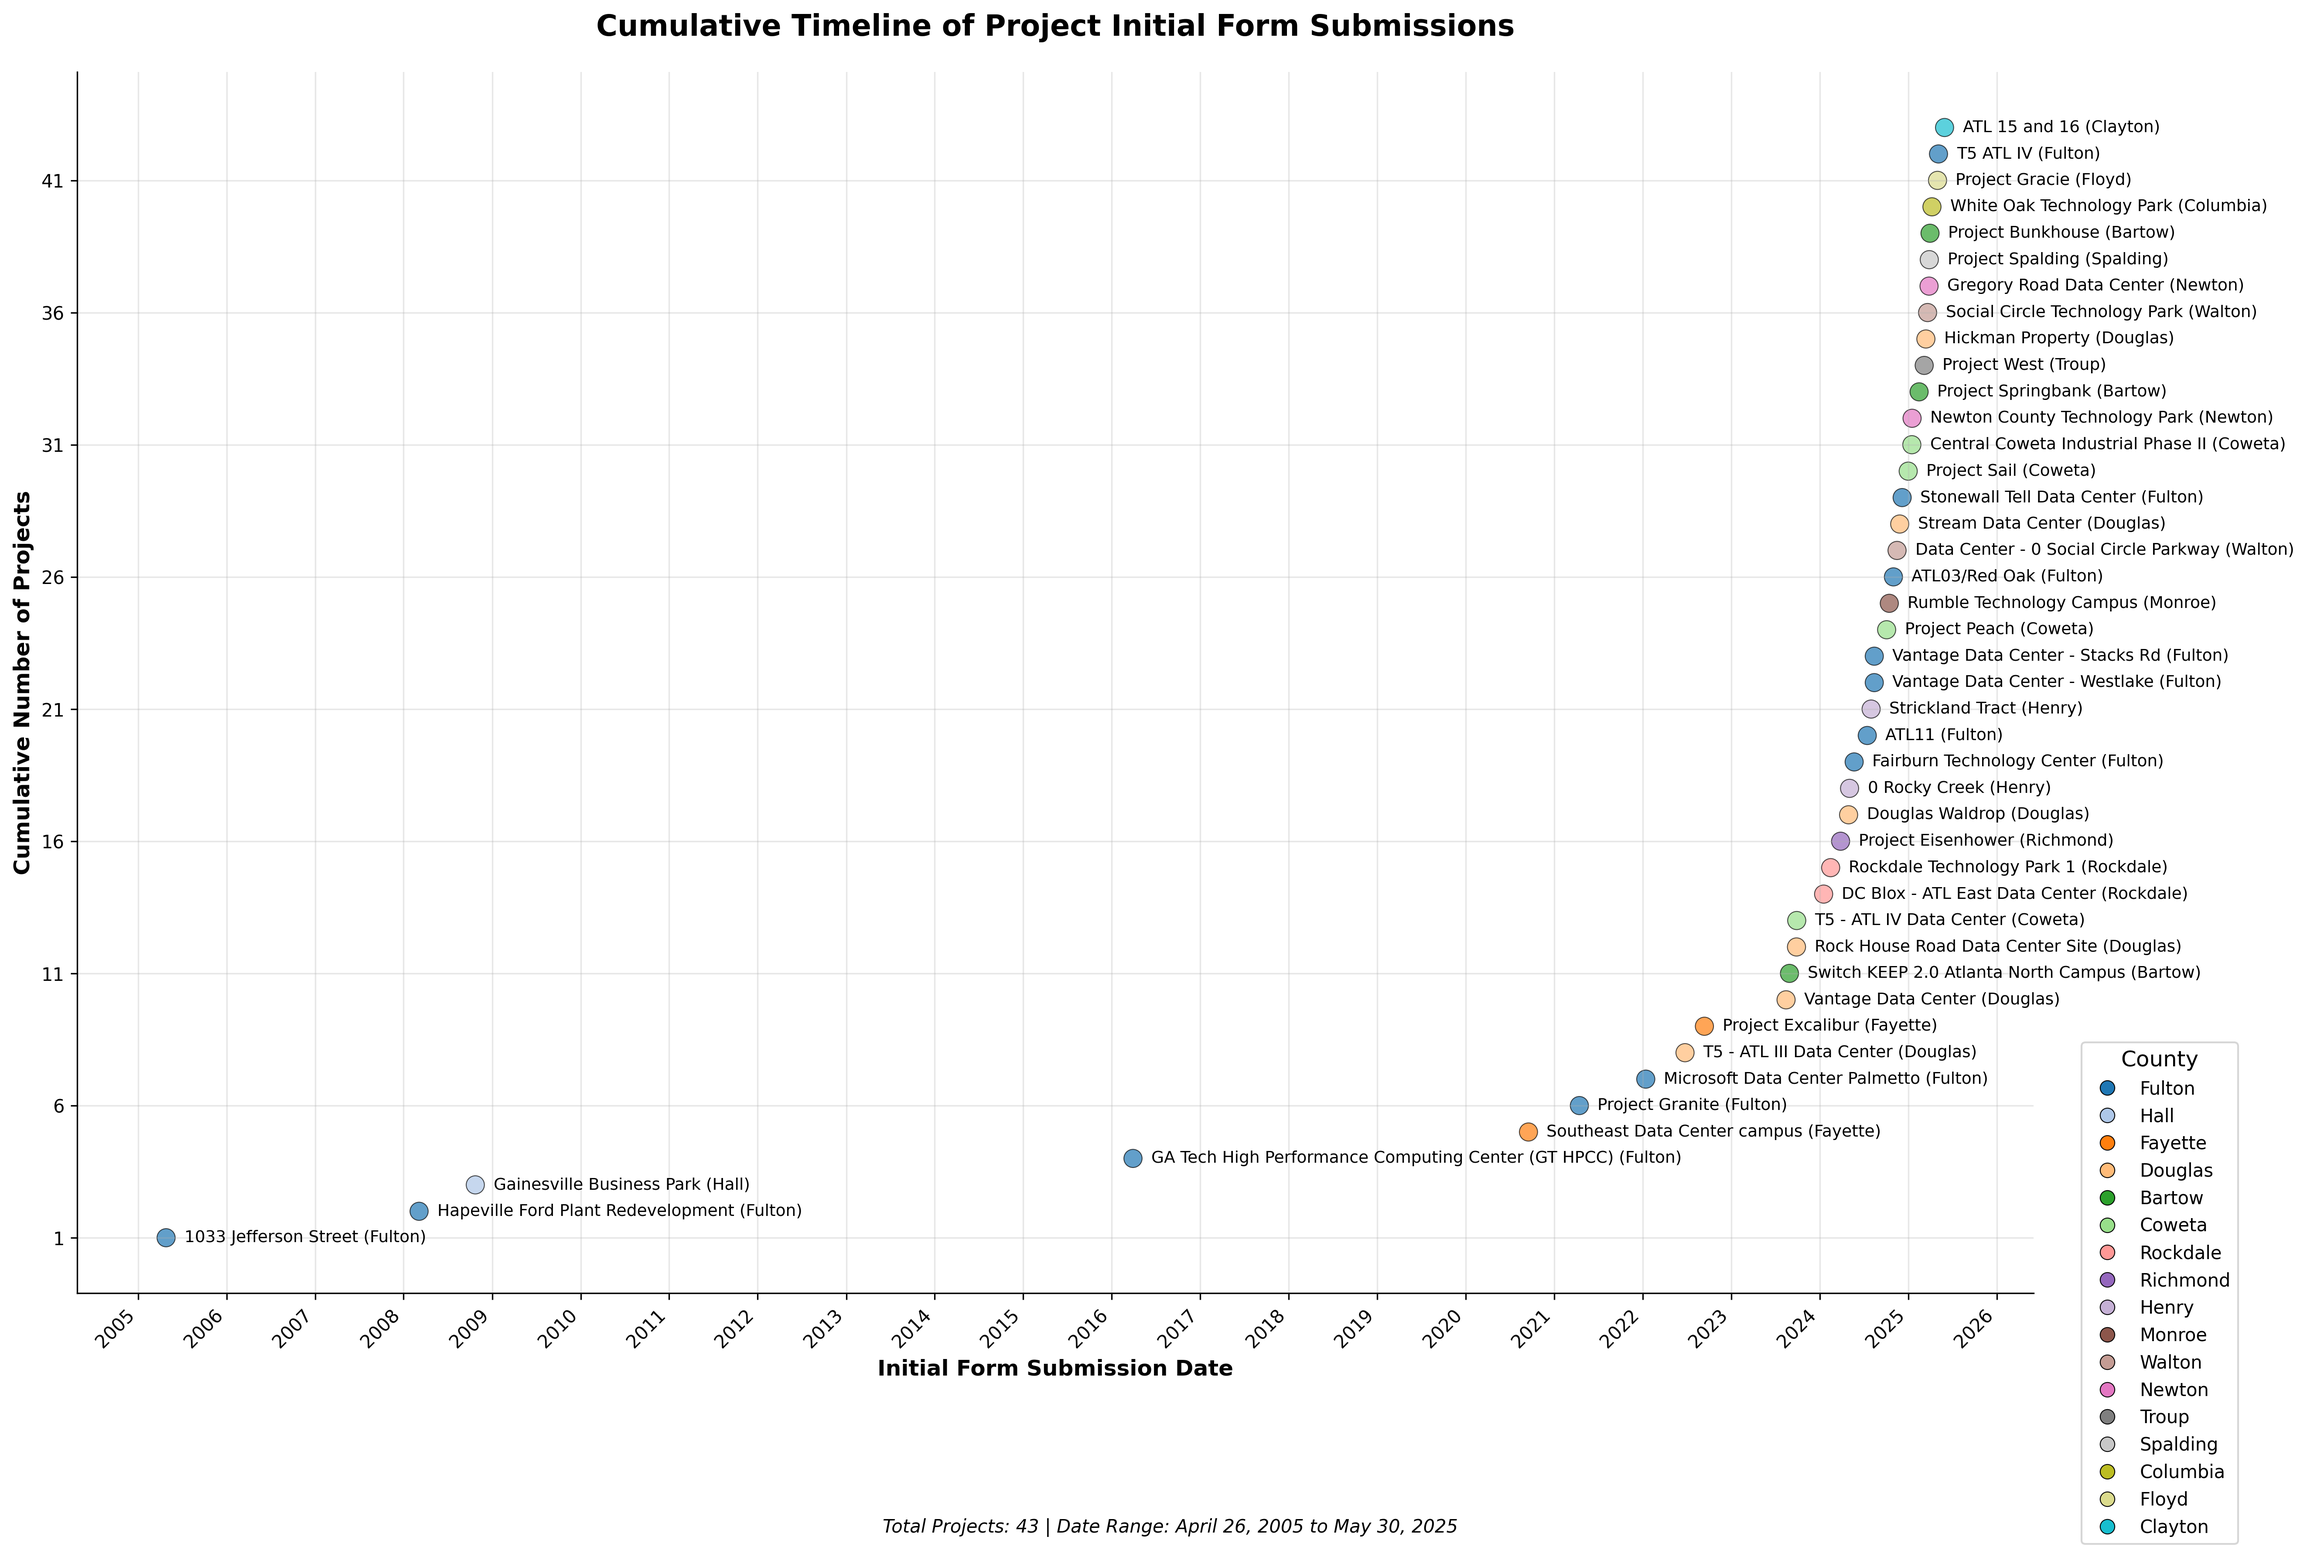
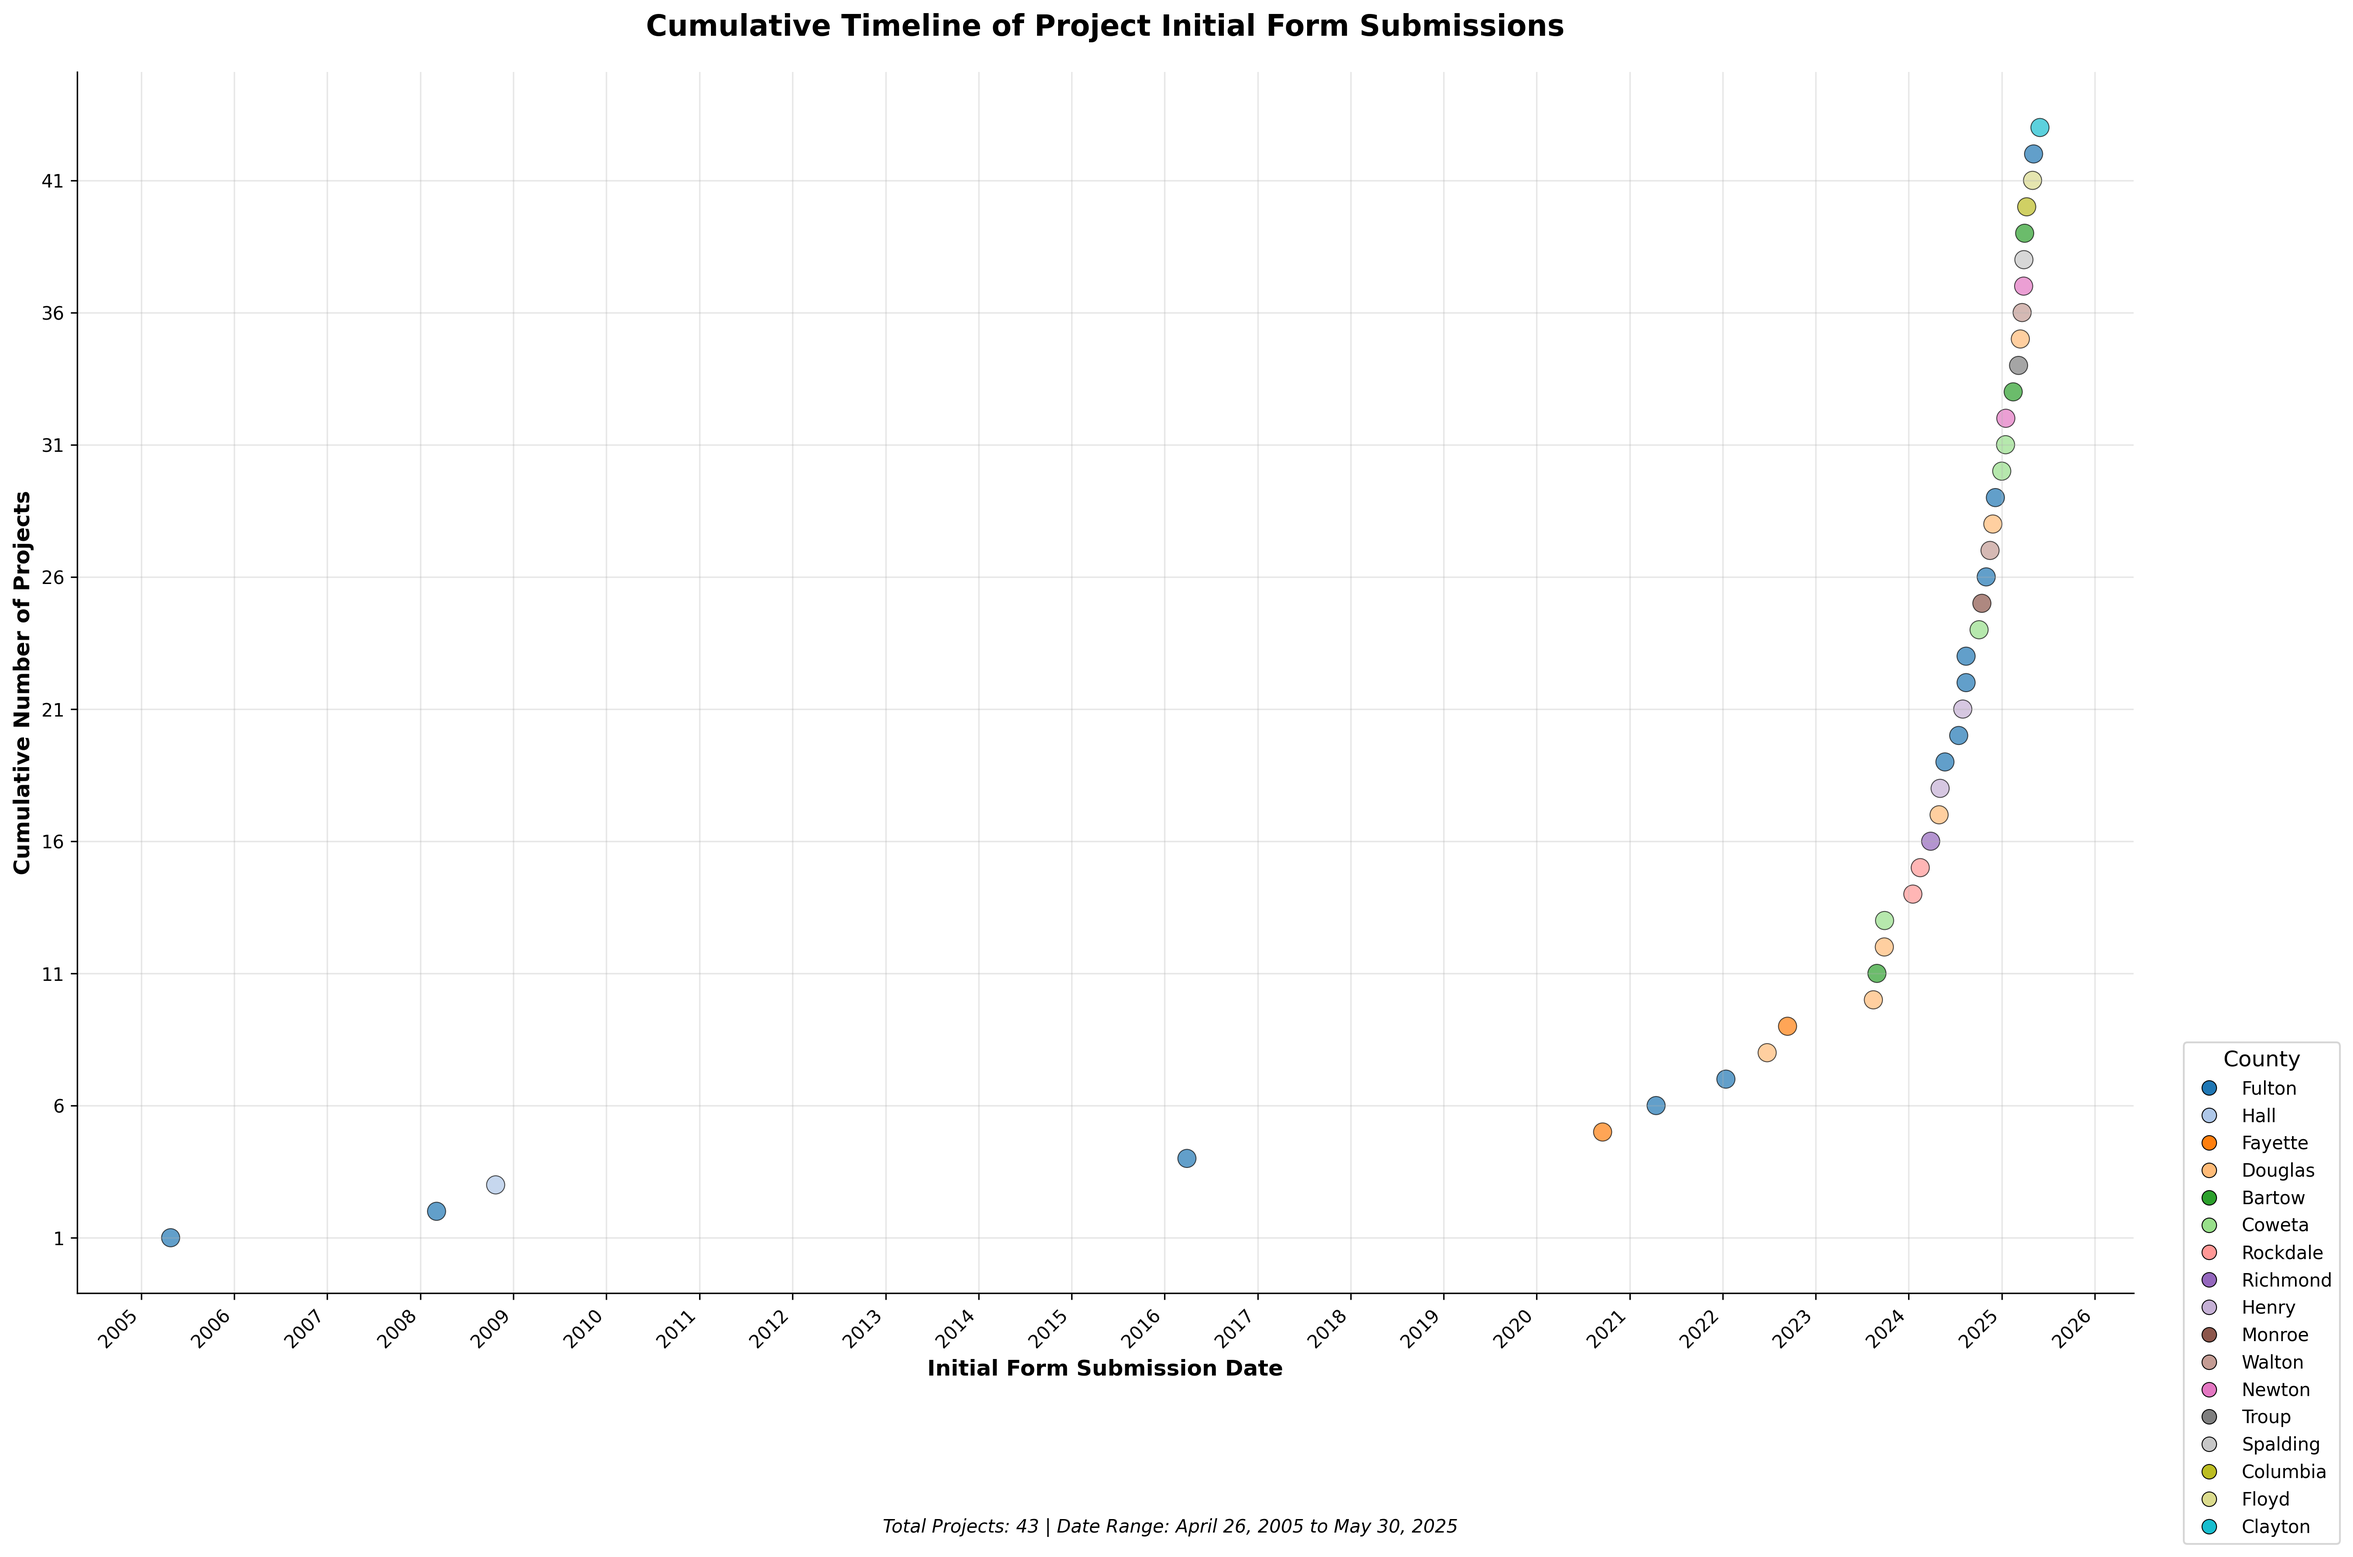
Changed timeline visualization

diff --git a/scripts/water_data_visualizations.py b/scripts/water_data_visualizations.py
@@ -11,6 +11,7 @@ from shapely.geometry import shape
 from datetime import datetime
 import matplotlib.dates as mdates
 from matplotlib import colormaps
+from matplotlib.ticker import FuncFormatter
 
 
 def map_visualzation_matplotlib():
@@ -191,6 +192,125 @@ def plot_stacked_bar_by_county():
     os.makedirs(folder, exist_ok=True)
     plt.savefig(os.path.join(folder, "data_center_water_data_bar_chart_matplotlib.png"), dpi=300, bbox_inches='tight')
 
+def plot_monthly_submission_timeline():
+    script_dir = Path(__file__).resolve().parent
+    data_center_path = script_dir.parent / "data" / "data_center.csv"
+    df = pd.read_csv(data_center_path)
+    
+    # Drop rows without a valid submission date
+    df = df.dropna(subset=["Initial Info Form Submision Date"])
+    
+    # Convert the submission date to datetime
+    df['Initial Info Form Submision Date'] = pd.to_datetime(df['Initial Info Form Submision Date'], format='%m/%d/%Y')
+    
+    # Create a year-month column for grouping
+    df['Year_Quarter'] = df['Initial Info Form Submision Date'].dt.to_period('Q')
+    
+    # Group by month and county to get counts
+    quarterly_count = df.groupby(['Year_Quarter', 'County']).size().reset_index(name='count')
+    
+    # Create a complete date range to fill in months with zero submissions
+    date_range = pd.period_range(
+        start=df['Initial Info Form Submision Date'].min().to_period('Q'),
+        end=df['Initial Info Form Submision Date'].max().to_period('Q'),
+        freq='Q'
+    )
+    
+    # Get unique counties
+    unique_counties = df['County'].unique()
+    
+    # Create color mapping
+    cmap = colormaps.get_cmap("tab20")
+    color_map = [cmap(i / len(unique_counties)) for i in range(len(unique_counties))]
+    county_colors = {county: color_map[i] for i, county in enumerate(unique_counties)}
+    
+    # Create the plot
+    fig, ax = plt.subplots(figsize=(16, 10))
+    
+    # Create stacked bar chart or separate bars for each county
+    bottom_values = None
+    bar_width = 90  # Width in days for better visibility
+    
+    for county in unique_counties:
+        county_data = quarterly_count[quarterly_count['County'] == county]
+        
+        # Create a complete series with zeros for missing months
+        county_series = pd.Series(0, index=date_range, name=county)
+        for _, row in county_data.iterrows():
+            county_series[row['Year_Quarter']] = row['count']
+        
+        # Convert period index to datetime for plotting
+        x_dates = county_series.index.to_timestamp()
+        
+        if bottom_values is None:
+            # First county - plot from bottom
+            bars = ax.bar(x_dates, county_series.values, 
+                         width=bar_width, label=county, 
+                         color=county_colors[county], alpha=0.8,
+                         edgecolor='black', linewidth=1)
+            bottom_values = county_series.values.copy()
+        else:
+            # Subsequent counties - stack on top
+            bars = ax.bar(x_dates, county_series.values, 
+                         width=bar_width, label=county,
+                         bottom=bottom_values, color=county_colors[county], 
+                         alpha=0.8, edgecolor='black', linewidth=1)
+            bottom_values += county_series.values
+
+    
+    # Format the plot
+    
+    ax.set_ylabel('Number of Submissions', fontsize=12, fontweight='bold')
+    ax.set_xlabel('Quarter', fontsize=12, fontweight='bold')
+    ax.set_title('Quarterly Data Center Initial Form Submissions by County', 
+                 fontsize=16, fontweight='bold', pad=20)
+    
+    # Format x-axis dates (for stacked version)
+    ax.xaxis.set_major_locator(mdates.MonthLocator(bymonth=[1, 7]))  # Every 3 months
+    ax.xaxis.set_major_formatter(FuncFormatter(quarter_formatter))
+    ax.xaxis.set_minor_locator(mdates.MonthLocator(bymonth=[4, 10]))
+    
+    # Rotate x-axis labels
+    plt.setp(ax.xaxis.get_majorticklabels(), rotation=45, ha='right', fontsize=8)
+    
+    # Add grid
+    ax.grid(True, alpha=0.3, axis='y')
+    ax.set_axisbelow(True)
+    
+    # Add legend
+    ax.legend(title='County', title_fontsize=12, fontsize=10, 
+              loc='upper left', bbox_to_anchor=(1.02, 1))
+    
+    # Style the plot
+    ax.spines['top'].set_visible(False)
+    ax.spines['right'].set_visible(False)
+    
+    # Add summary statistics
+    total_projects = len(df)
+    earliest_date = df['Initial Info Form Submision Date'].min().strftime('%Y %Q')
+    latest_date = df['Initial Info Form Submision Date'].max().strftime('%Y %Q')
+    peak_quarter = quarterly_count.groupby('Year_Quarter')['count'].sum().idxmax()
+    
+    plt.figtext(0.5, 0.02, 
+                f'Total Projects: {total_projects} | Period: {earliest_date} to {latest_date} | Peak Month: {peak_quarter}',
+                ha='center', fontsize=10, style='italic')
+    
+    # Adjust layout
+    plt.tight_layout()
+    plt.subplots_adjust(bottom=0.15, right=0.75)
+    
+    # Save the plot
+    folder = "visualizations"
+    os.makedirs(folder, exist_ok=True)
+    plt.savefig(os.path.join(folder, "quarterly_data_center_submissions.png"), 
+                dpi=300, bbox_inches='tight')
+
+
+def quarter_formatter(x, pos):
+    date = mdates.num2date(x)
+    quarter = (date.month - 1) // 3 + 1
+    return f"{date.year} Q{quarter}"
+
 def plot_submission_timeline():
     script_dir = Path(__file__).resolve().parent
     data_center_path = script_dir.parent / "data" / "data_center.csv"
@@ -234,6 +354,7 @@ def plot_submission_timeline():
                         c=colors, s=100, alpha=0.7, edgecolors='black', linewidth=0.5)
 
     # Add project names to the right of each point
+    '''
     for i, (idx, row) in enumerate(df.iterrows()):
         cumulative_count = i + 1  # i starts at 0, so add 1 for cumulative count
         ax.annotate(f"{row['Project Name']} ({row['County']})",
@@ -243,7 +364,7 @@ def plot_submission_timeline():
                     fontsize=9,
                     va='center',
                     ha='left')
-
+    '''
     # Format the plot
     ax.set_yticks(y_positions[::5])  # Show every 5th tick to avoid crowding
     ax.set_ylabel('Cumulative Number of Projects', fontsize=12, fontweight='bold')
@@ -296,6 +417,8 @@ def plot_submission_timeline():
     folder = "visualizations"
     os.makedirs(folder, exist_ok=True)
     plt.savefig(os.path.join(folder, "data_center_data_center_timeline_matplotlib.png"), dpi=300, bbox_inches='tight')
+
+
 
 def plot_water_consumption_histogram():
     # Load your data
@@ -552,3 +675,5 @@ plot_submission_timeline()
 plot_water_consumption_histogram()
 
 plot_water_consumption_log_histogram()
+
+plot_monthly_submission_timeline()

diff --git a/scripts/water_data_visualization_to_README.py b/scripts/water_data_visualization_to_README.py
@@ -3,7 +3,7 @@ from pathlib import Path
 fig_paths = [
     Path("visualizations/data_center_water_data_county_map_matplotlib.png"),
     Path("visualizations/data_center_water_data_bar_chart_matplotlib.png"),
-    Path("visualizations/data_center_data_center_timeline_matplotlib.png"),
+    Path("visualizations/visualizations/quarterly_data_center_submissions.png"),
     Path("visualizations/data_center_water_consumption_histogram_matplotlib.png"),
     Path("visualizations/data_center_water_consumption_log_histogram_matplotlib.png")
 ]
@@ -11,7 +11,7 @@ fig_paths = [
 placeholder_map = {
     "<!-- FIGURE_1 -->": "visualizations/data_center_water_data_county_map_matplotlib.png",
     "<!-- FIGURE_2 -->": "visualizations/data_center_water_data_bar_chart_matplotlib.png",
-    "<!-- FIGURE_3 -->": "visualizations/data_center_data_center_timeline_matplotlib.png",
+    "<!-- FIGURE_3 -->": "visualizations/visualizations/quarterly_data_center_submissions.png",
     "<!-- FIGURE_4 -->": "visualizations/data_center_water_consumption_histogram_matplotlib.png",
     "<!-- FIGURE_5 -->": "visualizations/data_center_water_consumption_log_histogram_matplotlib.png"
 }
